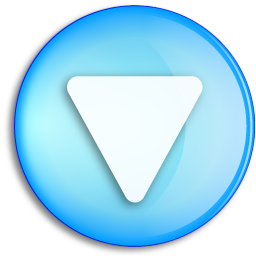
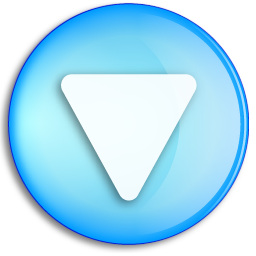
added scroll

Changed region(s): [[0.0, 0.0, 0.625, 0.9375], [0.375, 0.0312, 1.0, 1.0], [0.2188, 0.2812, 0.8125, 0.8125]]

diff --git a/public/javascripts/compiled/index.js b/public/javascripts/compiled/index.js
@@ -11,6 +11,7 @@
     height: 0,
     width: 0,
     inside: false,
+    sectionOffsets: [],
     initCanvas: function(id, sections) {
       return this.canvasBrushView = new window.CanvasBrushView({
         el: $("#" + id),
@@ -25,43 +26,81 @@
       return $('#sections a').each(function() {
         var left, link, top;
         link = $(this).clone();
-        log(link);
         top = $(this).offset().top;
         left = $(this).offset().left;
         $(link).css('top', top);
         $(link).css('left', left);
         $(link).css('position', 'absolute');
         $(link).addClass('absolute_link');
-        log(link);
-        log('[[[[[[[[[[[[[');
         return $('body').append($(link));
       });
     },
+    scrollArrowEffect: function() {
+      var self;
+      self = this;
+      log(self.sectionsArray);
+      return $('#arrow').click(function() {
+        var arrowOffset, bodyTop, s, windowScroll, _i, _len, _ref, _results;
+        bodyTop = $('body').scrollTop();
+        windowScroll = bodyTop + $(window).outerHeight();
+        arrowOffset = $(this).offset().top;
+        _ref = self.sectionsArray;
+        _results = [];
+        for (_i = 0, _len = _ref.length; _i < _len; _i++) {
+          s = _ref[_i];
+          log("ID  ==== " + s.id + " aaaaaa");
+          log("========BODY ========  " + s.offset[0] + "   ======" + bodyTop + "====== " + s.offset[1] + " \n");
+          log("========BODY ========  " + s.offset[0] + "   ======" + windowScroll + "====== " + s.offset[1] + " \n");
+          if (bodyTop <= s.offset[0] && s.offset[1] <= windowScroll) {
+            $('body').animate({
+              scrollTop: s.offset[1]
+            }, 500);
+            break;
+          } else if ((s.offset[0] <= arrowOffset && arrowOffset <= s.offset[1])) {
+            log("========ARROW========  " + s.offset[0] + "   ======" + arrowOffset + "====== " + s.offset[1]);
+            if (s.offset[0] === bodyTop) {
+              $('body').animate({
+                scrollTop: s.offset[1]
+              }, 500);
+            } else {
+              $('body').animate({
+                scrollTop: s.offset[0]
+              }, 500);
+            }
+            break;
+          } else {
+            _results.push(void 0);
+          }
+        }
+        return _results;
+      });
+    },
     init: function() {
-      var colors, i, sections_array, self;
+      var colors, i, self;
       self = this;
       i = 0;
       colors = [[0, 0, 0], [250, 250, 250], [250, 250, 250], [250, 250, 250], [250, 250, 250], [250, 250, 250], [250, 250, 250], [250, 250, 250], [0, 0, 0], [0, 0, 0]];
-      sections_array = [];
-      sections_array.push({
+      self.sectionsArray = [];
+      self.sectionsArray.push({
         'id': $('header').attr('id'),
         'color': colors[i],
         'offset': [$(header).offset().top, $(header).offset().top + $(header).outerHeight()]
       });
       i++;
       $('section').each(function() {
-        sections_array.push({
+        self.sectionsArray.push({
           'id': $(this).attr('id'),
           'color': colors[i],
           'offset': [$(this).offset().top, $(this).offset().top + $(this).outerHeight()]
         });
         return i++;
       });
-      this.initCanvas('bg', sections_array);
+      this.initCanvas('bg', self.sectionsArray);
       $('#clean').click(function() {
         return self.cleanCanvas();
       });
-      return this.duplicateLinks();
+      this.duplicateLinks();
+      return this.scrollArrowEffect();
     }
   };
 

diff --git a/public/stylesheets/less/app/index.less b/public/stylesheets/less/app/index.less
@@ -62,7 +62,20 @@
 	right:560px;
 }
 #arrow{
-	left:50px;
+	background-image: url("/images/arrow-blue.png");
+	background-size: 70px;
+	left:50px; 
+	width:70px;
+	height:70px;
+	&:hover{
+		background-image: url("/images/arrow-gray.png");
+	}
+}
+
+.btn_footer{
+	&:active{
+		box-shadow: inset 1px 1px 3px 1px #CCC; 
+	}
 }
 /**********************************************************************
 	GENERAL

diff --git a/public/stylesheets/index.css b/public/stylesheets/index.css
@@ -47,7 +47,17 @@
   right: 560px;
 }
 #arrow {
+  background-image: url("/images/arrow-blue.png");
+  background-size: 70px;
   left: 50px;
+  width: 70px;
+  height: 70px;
+}
+#arrow:hover {
+  background-image: url("/images/arrow-gray.png");
+}
+.btn_footer:active {
+  box-shadow: inset 1px 1px 3px 1px #CCC;
 }
 /**********************************************************************
 	GENERAL

diff --git a/public/javascripts/compiled/views/canvas-brush-view.js b/public/javascripts/compiled/views/canvas-brush-view.js
@@ -15,7 +15,6 @@
     },
     initialize: function() {
       var self;
-      log('initaaa');
       self = this;
       this.mutex = false;
       this.inside = false;
